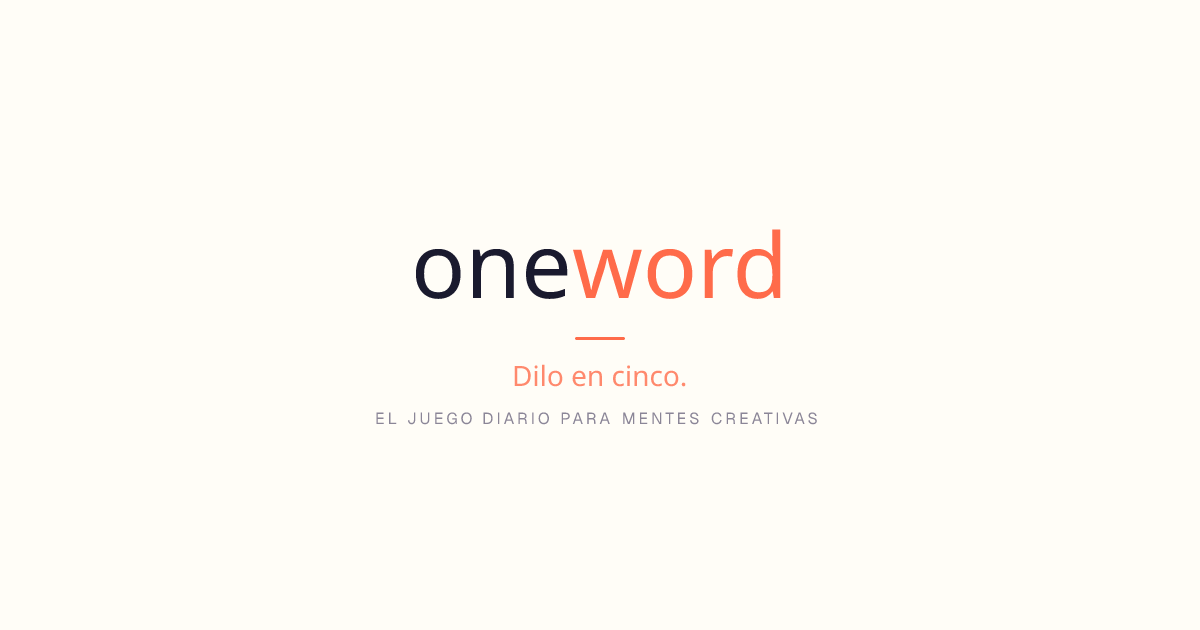
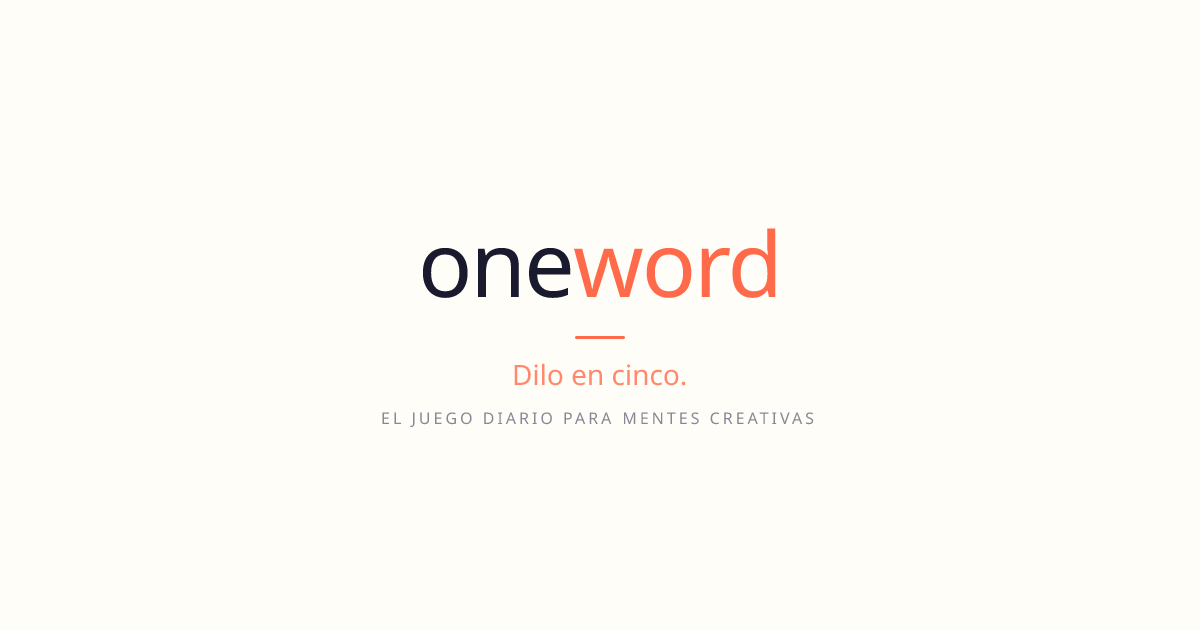
Use static OG images with new cream design for reliable previews
The dynamic /api/og route was timing out for Slack's crawler (~4s
due to font fetching). Switch to pre-generated static PNGs that
serve instantly. Updated generate-og-images.mjs script to produce
the new cream/coral design matching the site branding.

https://claude.ai/code/session_01FgJfVPY6YaZ5fQ9oqVMVAn

diff --git a/src/app/[locale]/layout.tsx b/src/app/[locale]/layout.tsx
@@ -45,7 +45,7 @@ export async function generateMetadata({
   const isEs = locale === 'es';
   const siteUrl = 'https://playoneword.app';
   const pageUrl = isEs ? `${siteUrl}/es` : siteUrl;
-  const ogImage = isEs ? `${siteUrl}/api/og?lang=es` : `${siteUrl}/api/og?lang=en`;
+  const ogImage = isEs ? `${siteUrl}/og-image-es.png` : `${siteUrl}/og-image.png`;
 
   return {
     title: t('title'),
